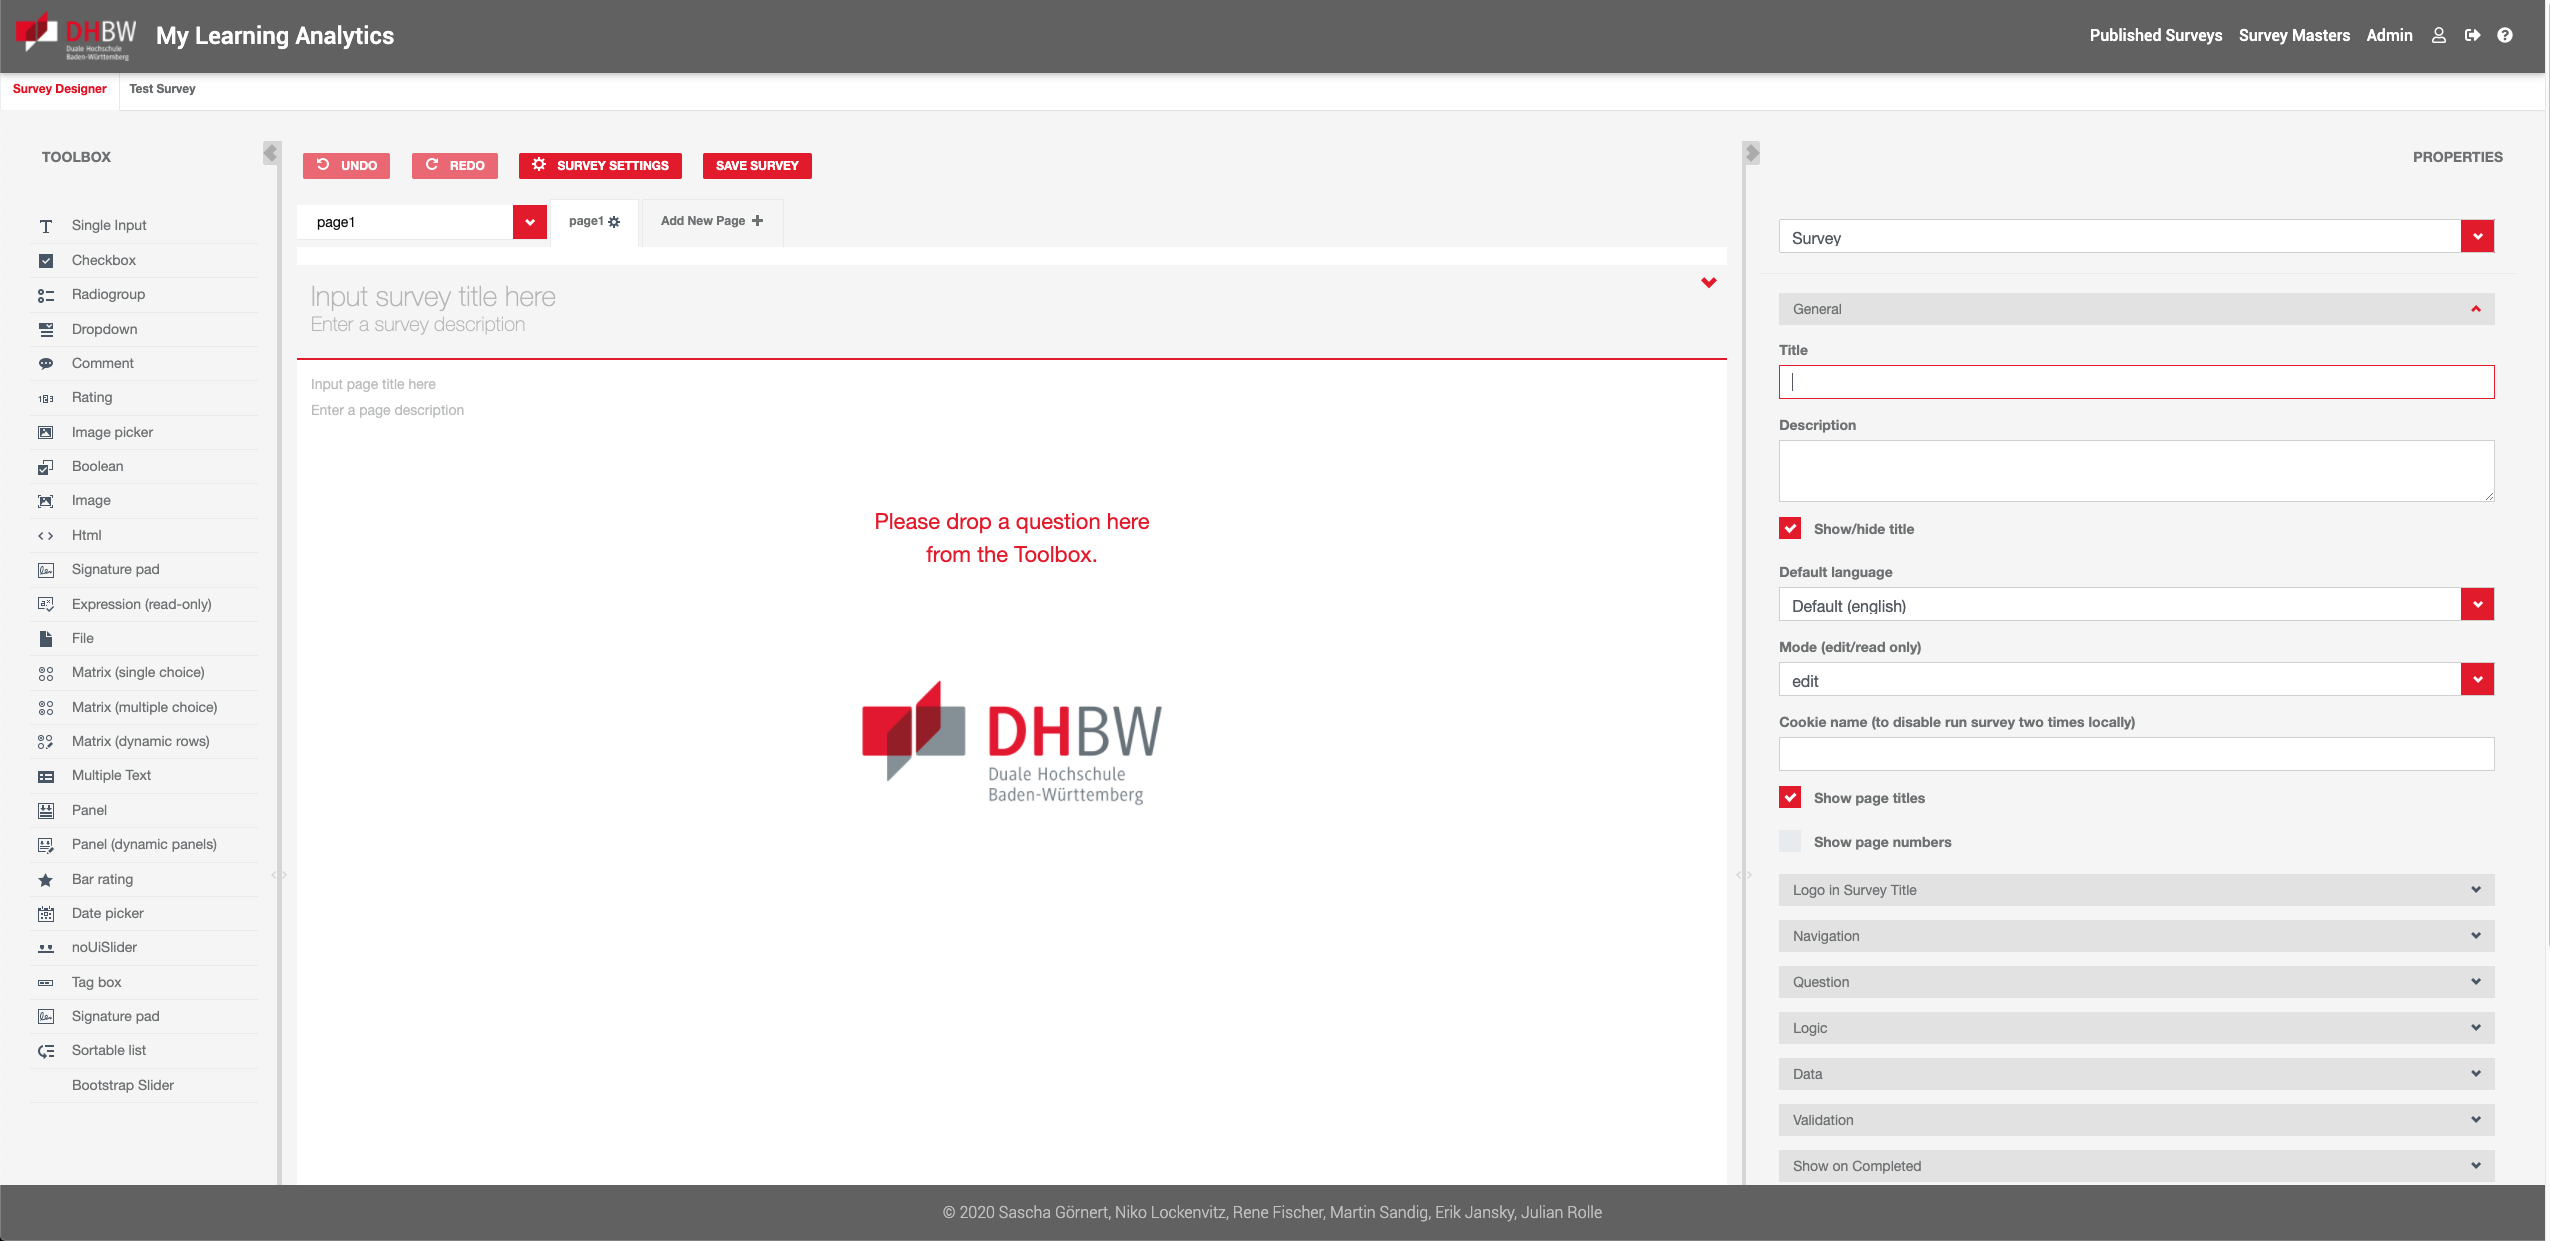
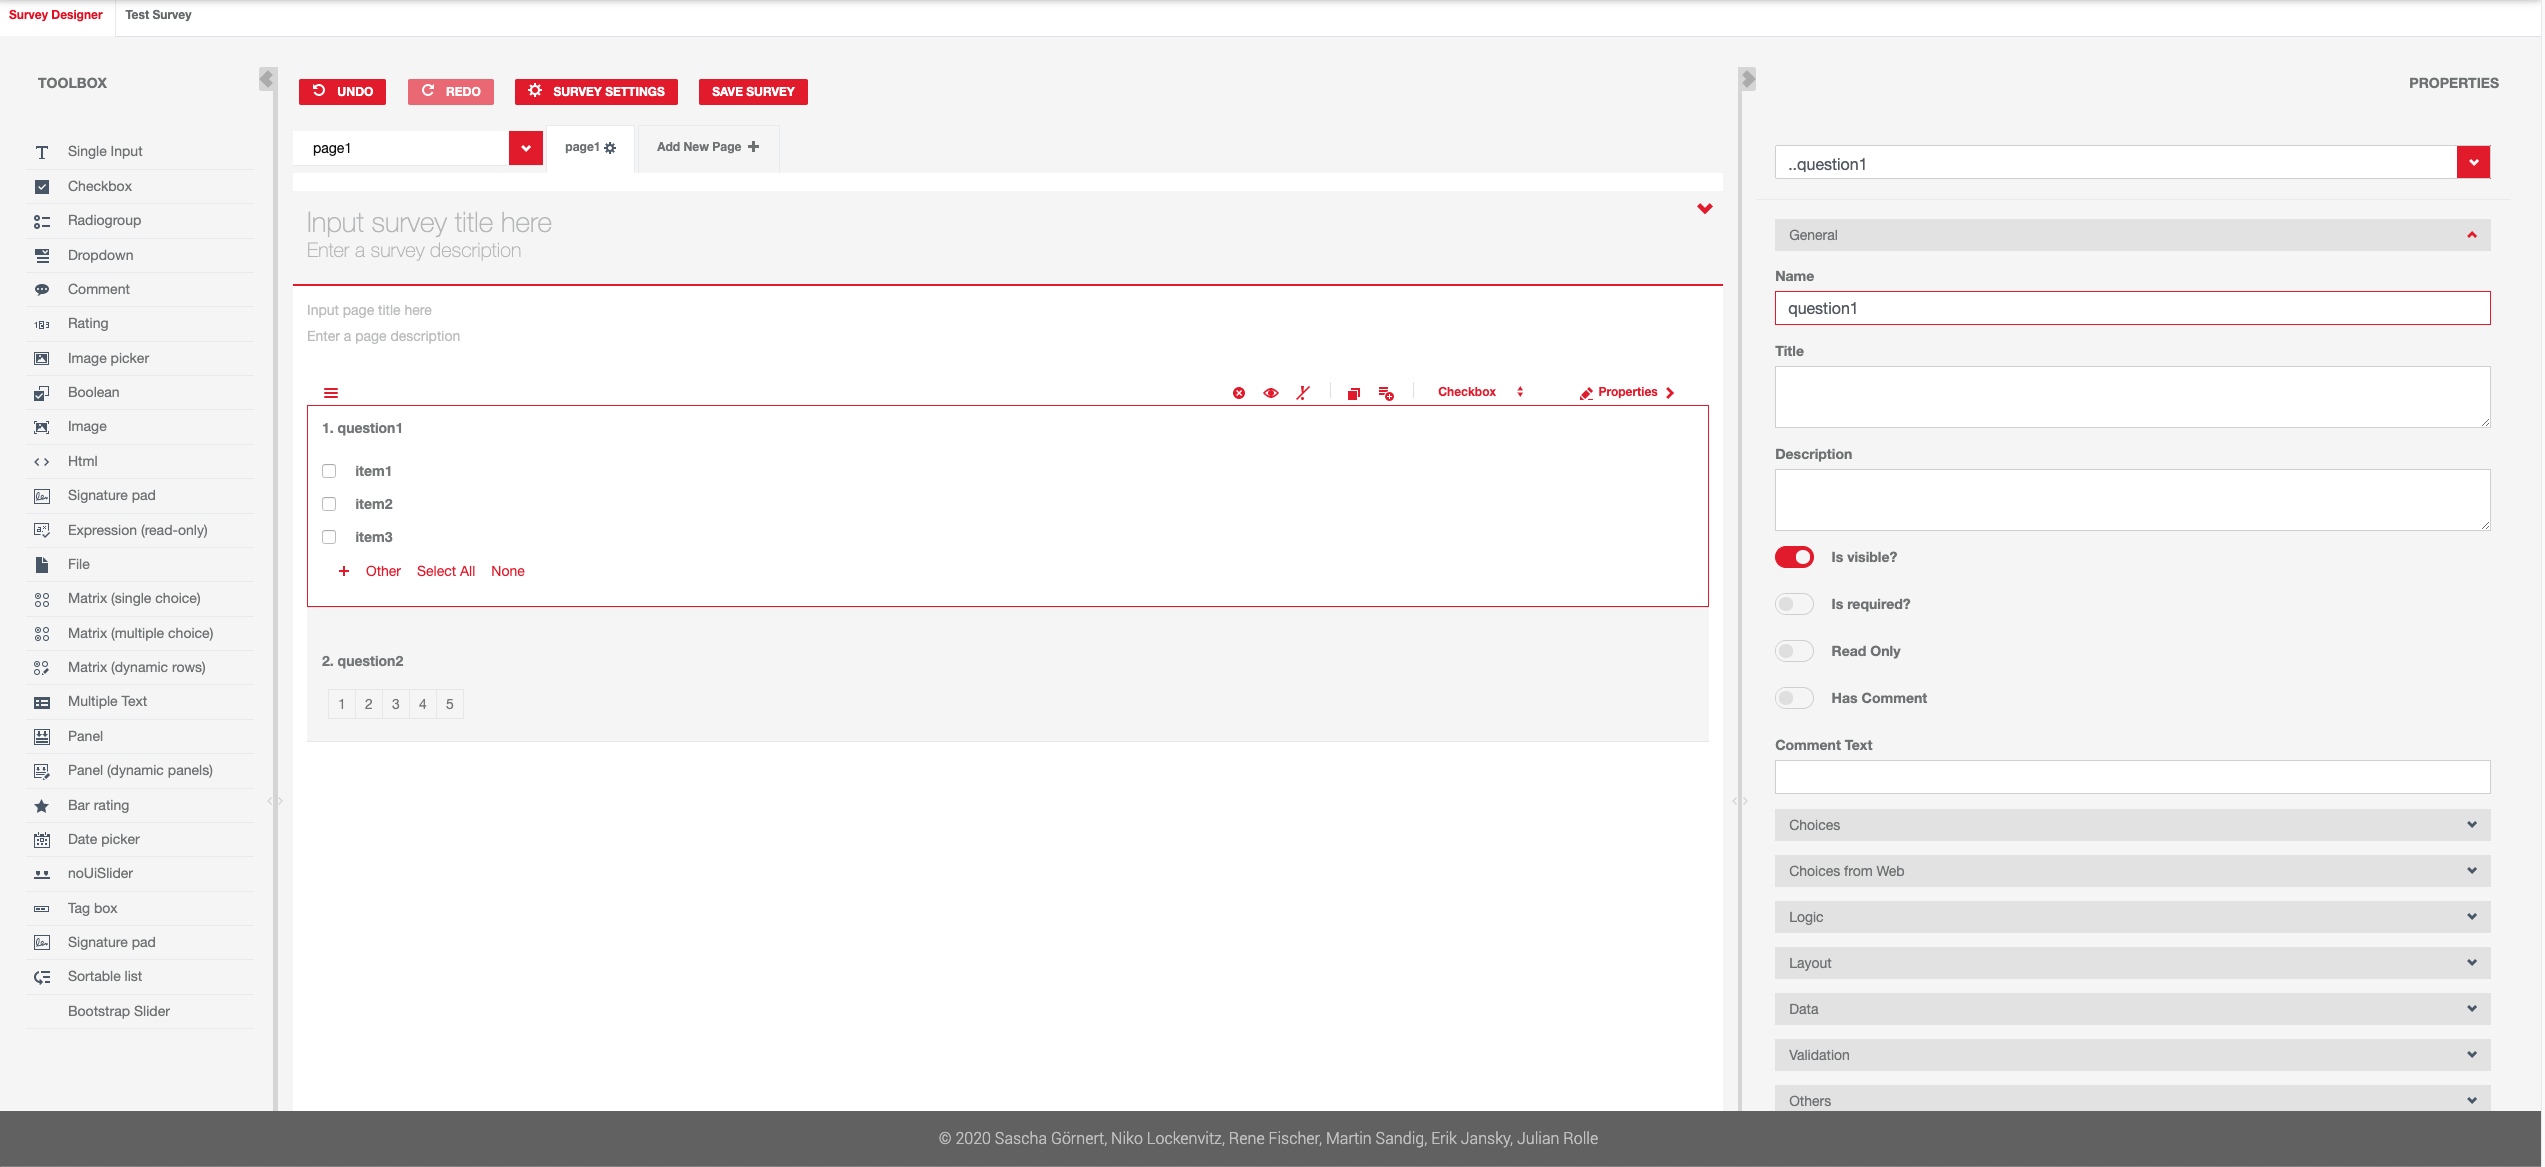
add stuff to client create survey

diff --git a/doc/content/implementierung/client/surveyCreator.tex b/doc/content/implementierung/client/surveyCreator.tex
@@ -17,16 +17,12 @@ Fragetypen sind exemplarisch:
 	\item Datepicker (Datumsfelder)
 \end{itemize}
 %
-Der Benutzer soll einen Titel sowie eine Beschreibung seiner Umfrage hinzufügen. 
 
-\abb \myRefGeneral{fig:SurveyCreatorImplement} stellt den Umfrageeditor der Anwendung dar, indem der Benutzer seine Umfragen erstellen sowie editieren kann. 
-Die Umfragen sollen spezifisch nur für den angemeldeten Benutzer sichbar sein. 
-Zudem soll der Benutzer noch die Möglichkeit haben, über eine Suchfunktion in seinen Umfragen nach einer geeigneten Umfrage zu suchen. \newline
-Darüberhinaus soll dem Benutzer visuell dargestellt werden, wieviele Umfragen er basierend auf dieser Vorlage (Master Survey) erstellt hat. 
-Des weiteren soll dem Benutzer ermöglicht werden, Umfragen, die noch nicht veröffentlich wurden, zu editieren und zu löschen. \newline
-Über eine Button \enquote{Publish survey} soll der Benutzer eine Umfrage basierend auf dieser Master Survey erstellen können. 
-Ihm soll visuell dargestellt werden, dass das Anlegen erfolgreich war und den generierten Sourveycode anzeigen. 
-Diese wird seinem Result-Dashboard hinzugefügt (Kap. \myRefGeneral{ssec:ResultDashboardImplement}). 
+Wie der \abb \myRefGeneral{fig:SurveyCreatorImplement} stellt den Umfrageeditor der Anwendung dar. In diesem kann der Benutzer seine Umfragen erstellen sowie editieren kann. 
+Der Benutzer gibt der Umfrage einen Titel engl{title} sowie eine Beschreibung \engl{description}. 
+Er kann mehrere Seiten anlegen und auch jeder Seite eine \emph{title} und \emph{description} geben. \newline
+Über die Toolbox (linke Seite) kann der Benutzer über \emph{Drag \& Drop} die verschiedene Fragetypen auf die ausgewählte Seite schieben. \todo{evtl. neues Bild mit versch. FrageTpen} 
+Hier kann der Benutzer die Frage definieren und mögliche Auswahlmöglichkeiten (bei Single/Multiple Choice) definieren. 
 
 \begin{figure}[hp]
 	\centering
@@ -35,3 +31,23 @@ Diese wird seinem Result-Dashboard hinzugefügt (Kap. \myRefGeneral{ssec:ResultD
 	\caption[\acf{UI}: Erstellen einer Umfrage]{\acf{UI}: Erstellen einer Umfrage \\ \quelleScreenshot}
 	\label{fig:SurveyCreatorImplement}
 \end{figure}
+
+Klickt der Benutzer auf die Schaltfläche \jinline|Test Survey|, kann er seine erstellte Survey ansehen, wie sie sich auf verschiedene Geräte wie \zb iPhone 8 verhält.
+\abb \vref{fig:SurveyAnsicht} zeigt die Möglichkeit, sich seine erstellte Survey auf einem bestimmten Gerät \engl{device} anzuschauen (hier: Desktop).  
+Der Benutzer hat die Möglichkeit über eine \emph{preview} wie in \abb \vref{fig:SurveyMobileAnsicht} verschiedene mobile Geräte auszuwählen, um auch auf diesen Geräten die Darstellung seiner Umfrage zu überprüfen. 
+\abb \vref{fig:SurveyMobileAnsichtIPhone8} zeigt die erstellte Umfrage auf einem iPhone 8 an wohingegen \abb \vref{fig:SurveyMobileAnsichtAndroid}. 
+
+
+\begin{figure}[h]
+	\centering
+	\captionsetup{justification=centering, format=plain}
+	\subfigure[Ansicht der Survey]{\includegraphics[width=0.48\textwidth]{img/client/CreateSurveyMaster_View1.png}\label{fig:SurveyAnsicht}}\hfill
+	\subfigure[Auswahl der verschiedenen Mobileansichten]{\includegraphics[width=0.48\textwidth]{img/client/CreateSurveyMaster_View2.png}\label{fig:SurveyMobileAnsicht}}\hfill
+	\subfigure[Mobileansicht: iPhone 8]{\includegraphics[width=0.48\textwidth]{img/client/CreateSurveyMaster_View3.png}\label{fig:SurveyMobileAnsichtIPhone8}}\hfill
+	\subfigure[Mobileansicht: Android Phone]{\includegraphics[width=0.48\textwidth]{img/client/CreateSurveyMaster_View4.png}\label{fig:SurveyMobileAnsichtAndroid}}
+	\caption[Ansichtsoberfläche der Umfrage]{\label{fig:SurveyCreatorViewImplement}Ansichtsoberfläche der Umfrage \\ \quelleScreenshot}
+\end{figure}
+
+Über einen Button \jinline|Save Survey| kann der Benutzer die Umfrage speichern.
+Er erhält auch hier wieder ein visuelles Feedback über den Erfolg oder Nichterfolg des Erstellens der Umfrage. 
+Seine erstellte Umfragen erscheint in seinen \emph{Survey Dashboard} (Kap. \vref{ssec:UmfrageDashboard}).

diff --git a/doc/content/implementierung/client.tex b/doc/content/implementierung/client.tex
@@ -16,6 +16,8 @@
 
 \input{content/implementierung/client/resultDashboard.tex}
 
+\input{content/implementierung/client/surveyDashboard.tex}
+
 \input{content/implementierung/client/surveyCreator.tex}
 
 \input{content/implementierung/client/admin.tex}
